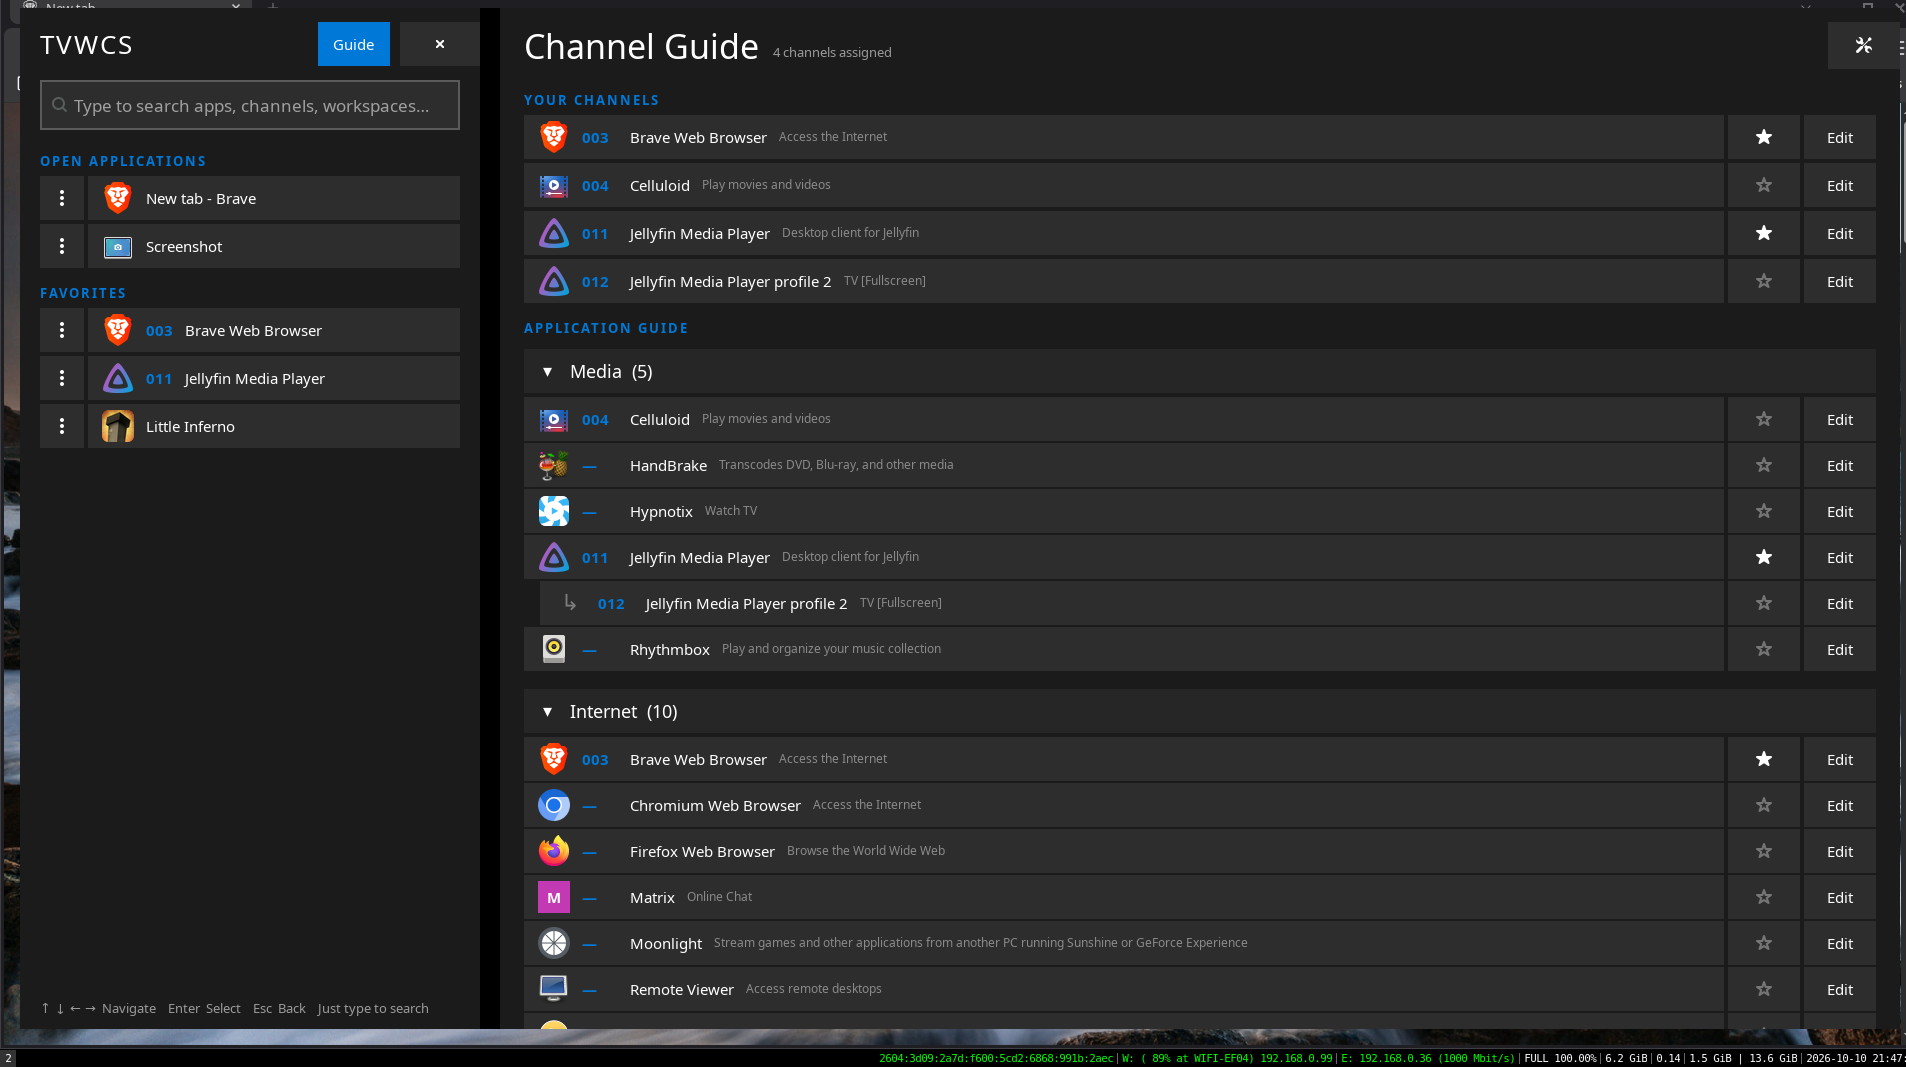
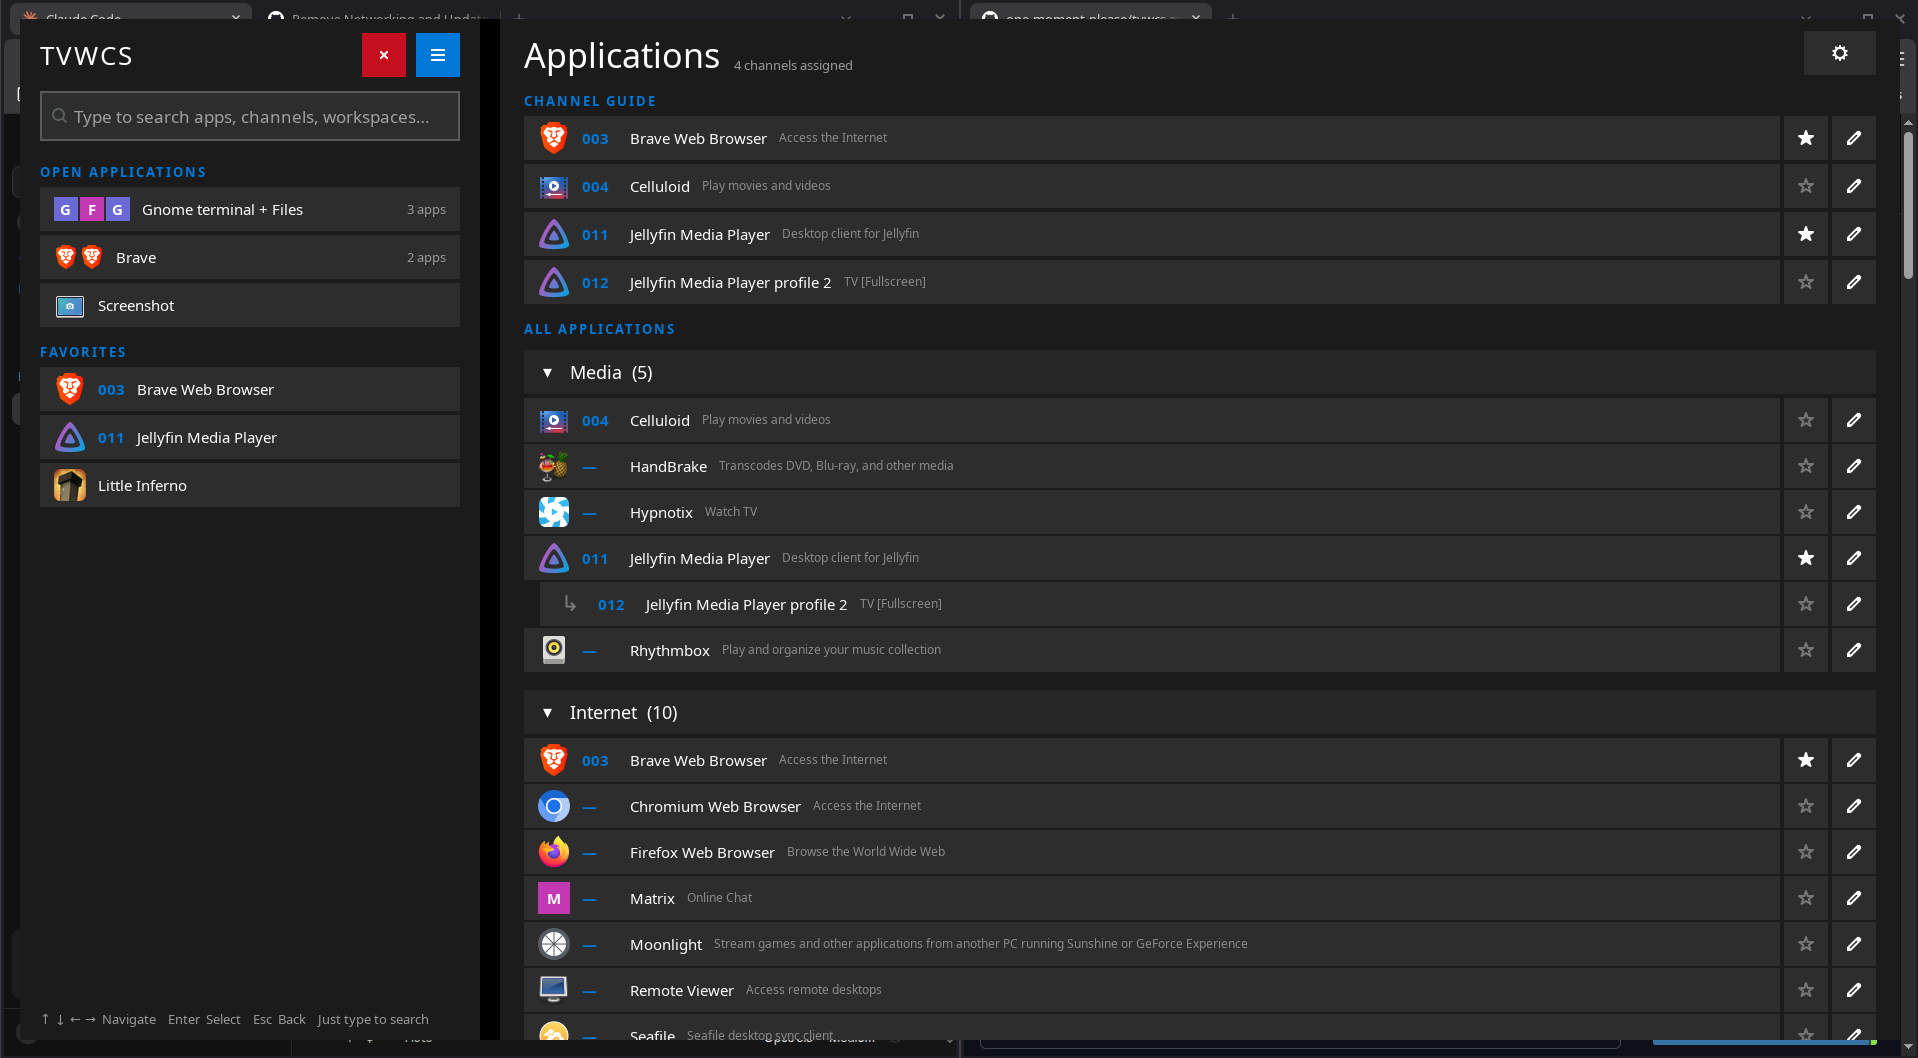
README: new screenshots of the Quick Menu, Applications guide and Settings
Replaces the old screenshots with current ones (status bar cropped off) and
adds a Settings screenshot, each with a description of what it shows.

Claude-Session: https://claude.ai/code/session_01GySm6Gp8bM65GFmXuwpBQ4

diff --git a/README.md b/README.md
@@ -4,20 +4,27 @@ TVWCS (TV Window Channel Switcher) is a remote-friendly, TV-style launcher and w
 
 <table>
   <tr>
-    <th width="30%">Quick Menu</th>
-    <th width="70%">Quick Menu + Applications</th>
+    <th width="25%">Quick Menu</th>
+    <th width="75%">Quick Menu + Applications</th>
   </tr>
   <tr>
     <td valign="top"><img src="assets/quick-menu.png" alt="The TVWCS Quick Menu" width="100%"></td>
     <td valign="top"><img src="assets/guide-menu.png" alt="The Quick Menu with the Applications guide open beside it" width="100%"></td>
   </tr>
   <tr>
-    <td valign="top">The Quick Menu: a full-height column at the left of the screen. A search field sits at the top. Under <b>Open applications</b>, Brave has its own workspace, and a workspace shared by three apps is shown as one entry (<i>Gnome terminal + Files + …</i>, 3 apps). Under <b>Favorites</b> are pinned apps, some with channel numbers (003, 011). The ⋮ button on each row opens that row's options. The key hints are at the bottom.</td>
-    <td valign="top">The Applications guide open to the right of the Quick Menu. <b>Your channels</b> lists every profile that has a channel number. <b>Application guide</b> lists every installed app by category (Media, Internet, …). Each row shows the app's logo, channel, name and description, then a favorite star and Edit. <i>Jellyfin Media Player profile 2</i> is a second launch profile of Jellyfin, indented under it with a ↳. The button at the top right opens Settings.</td>
+    <td valign="top">The Quick Menu, a full-height column at the left of the screen. The red ✕ closes it and ☰ opens Applications. Below the search field, <b>Open applications</b> lists what is running by workspace: Screenshot has a workspace of its own, while <i>Gnome terminal + Files</i> is one workspace holding 3 apps. <b>Favorites</b> are pinned apps, two of them with channel numbers (003, 011). Pressing ← on a row opens its options. The key hints are at the bottom.</td>
+    <td valign="top">The Applications guide open beside the Quick Menu. <b>Channel Guide</b> lists the 4 profiles that have a channel number. <b>All applications</b> lists every installed app by category (Media, Internet, …); Enter folds a category. Each row shows the app's logo, channel, name and description, then a favorite star (★ when it is a favorite) and an edit button. <i>Jellyfin Media Player profile 2</i> is a second launch profile of Jellyfin, indented under it with a ↳. The ⚙ button at the top right switches to Settings.</td>
+  </tr>
+  <tr>
+    <th colspan="2">Settings</th>
+  </tr>
+  <tr>
+    <td colspan="2"><img src="assets/settings.png" alt="The Settings view of the Applications pane" width="100%"></td>
+  </tr>
+  <tr>
+    <td colspan="2" valign="top">Settings, in the same pane (the button at the top right goes back to the guide). The left column holds Display, Behavior, At login and Updates; each row shows its current value on the right, and Enter changes it. The right column holds the three hotkey sets: keyboard (tap Super for the Quick Menu), remote (F2 and Shift+F2) and gamepad (not set). The System actions sit in a grid underneath. This Quick Menu has its options buttons hidden, one of the Behavior settings.</td>
   </tr>
 </table>
-
-<sub>The screenshots are from an earlier version, so some header buttons look different now.</sub>
 
 ## Requirements
 
